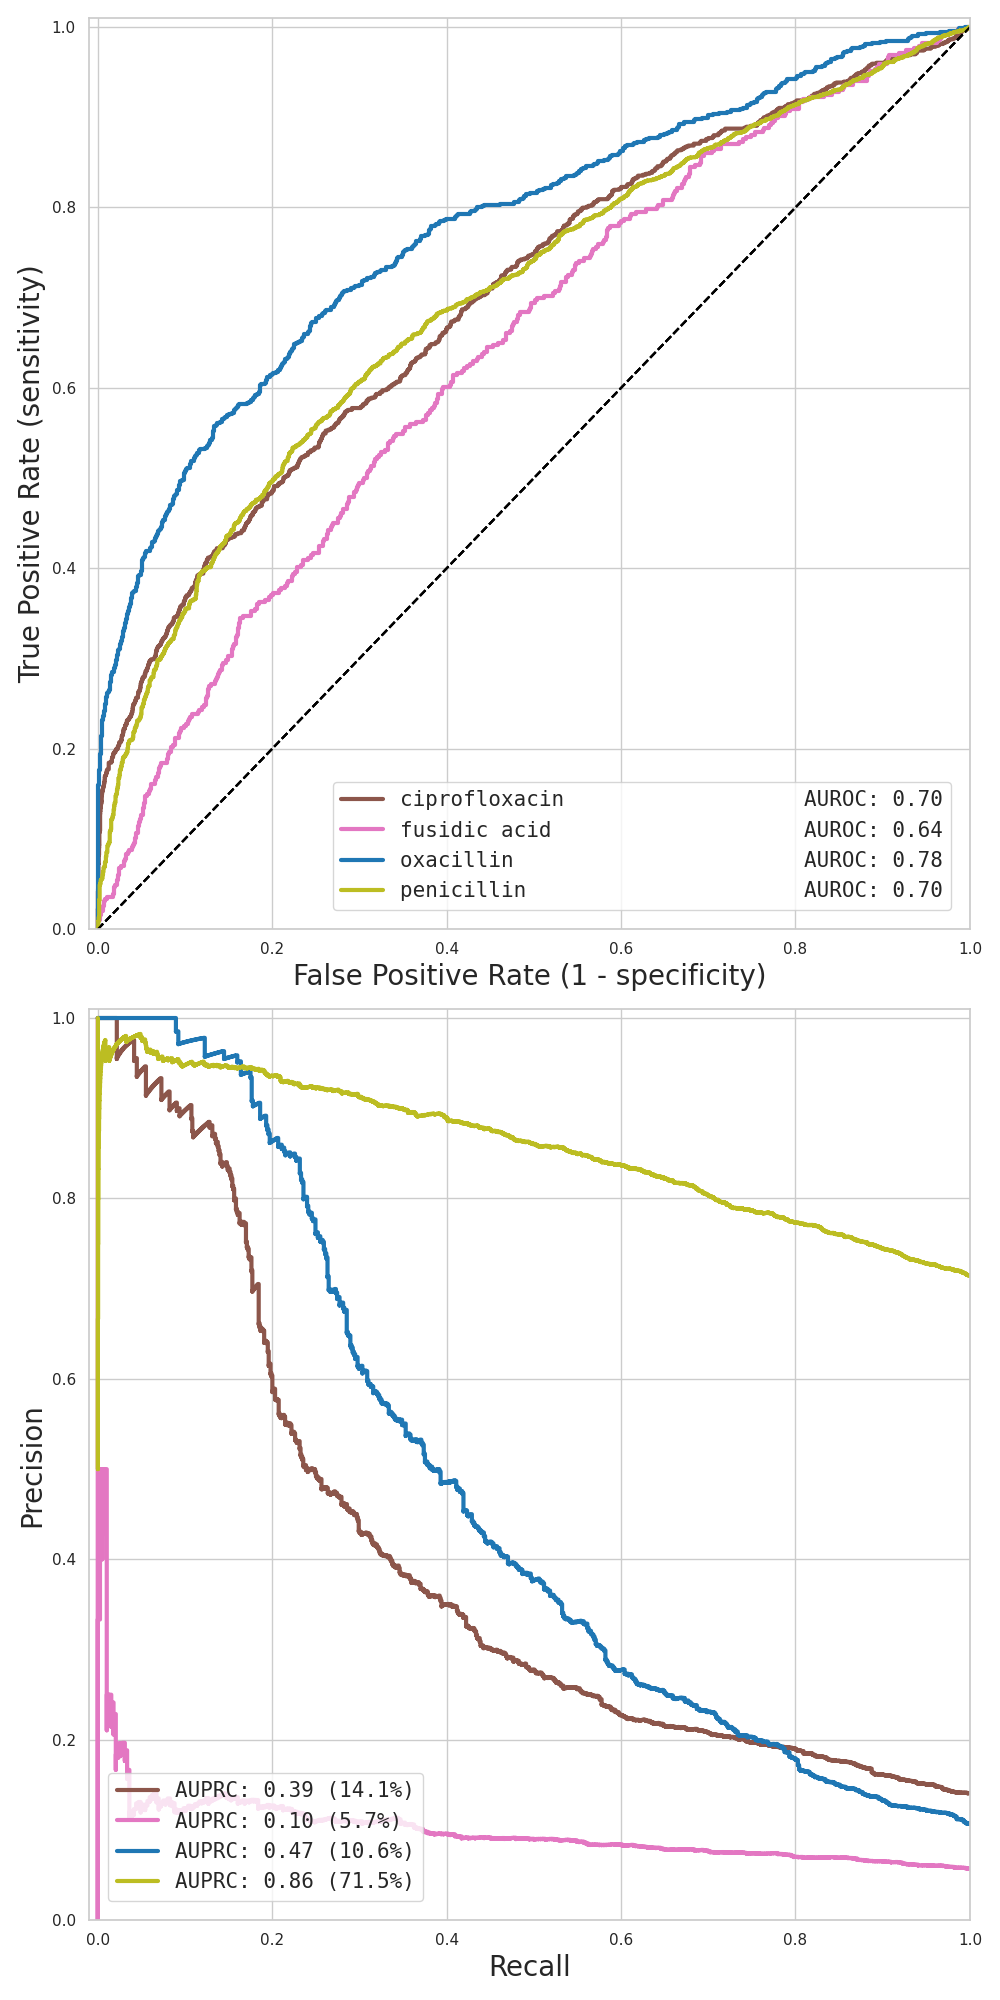
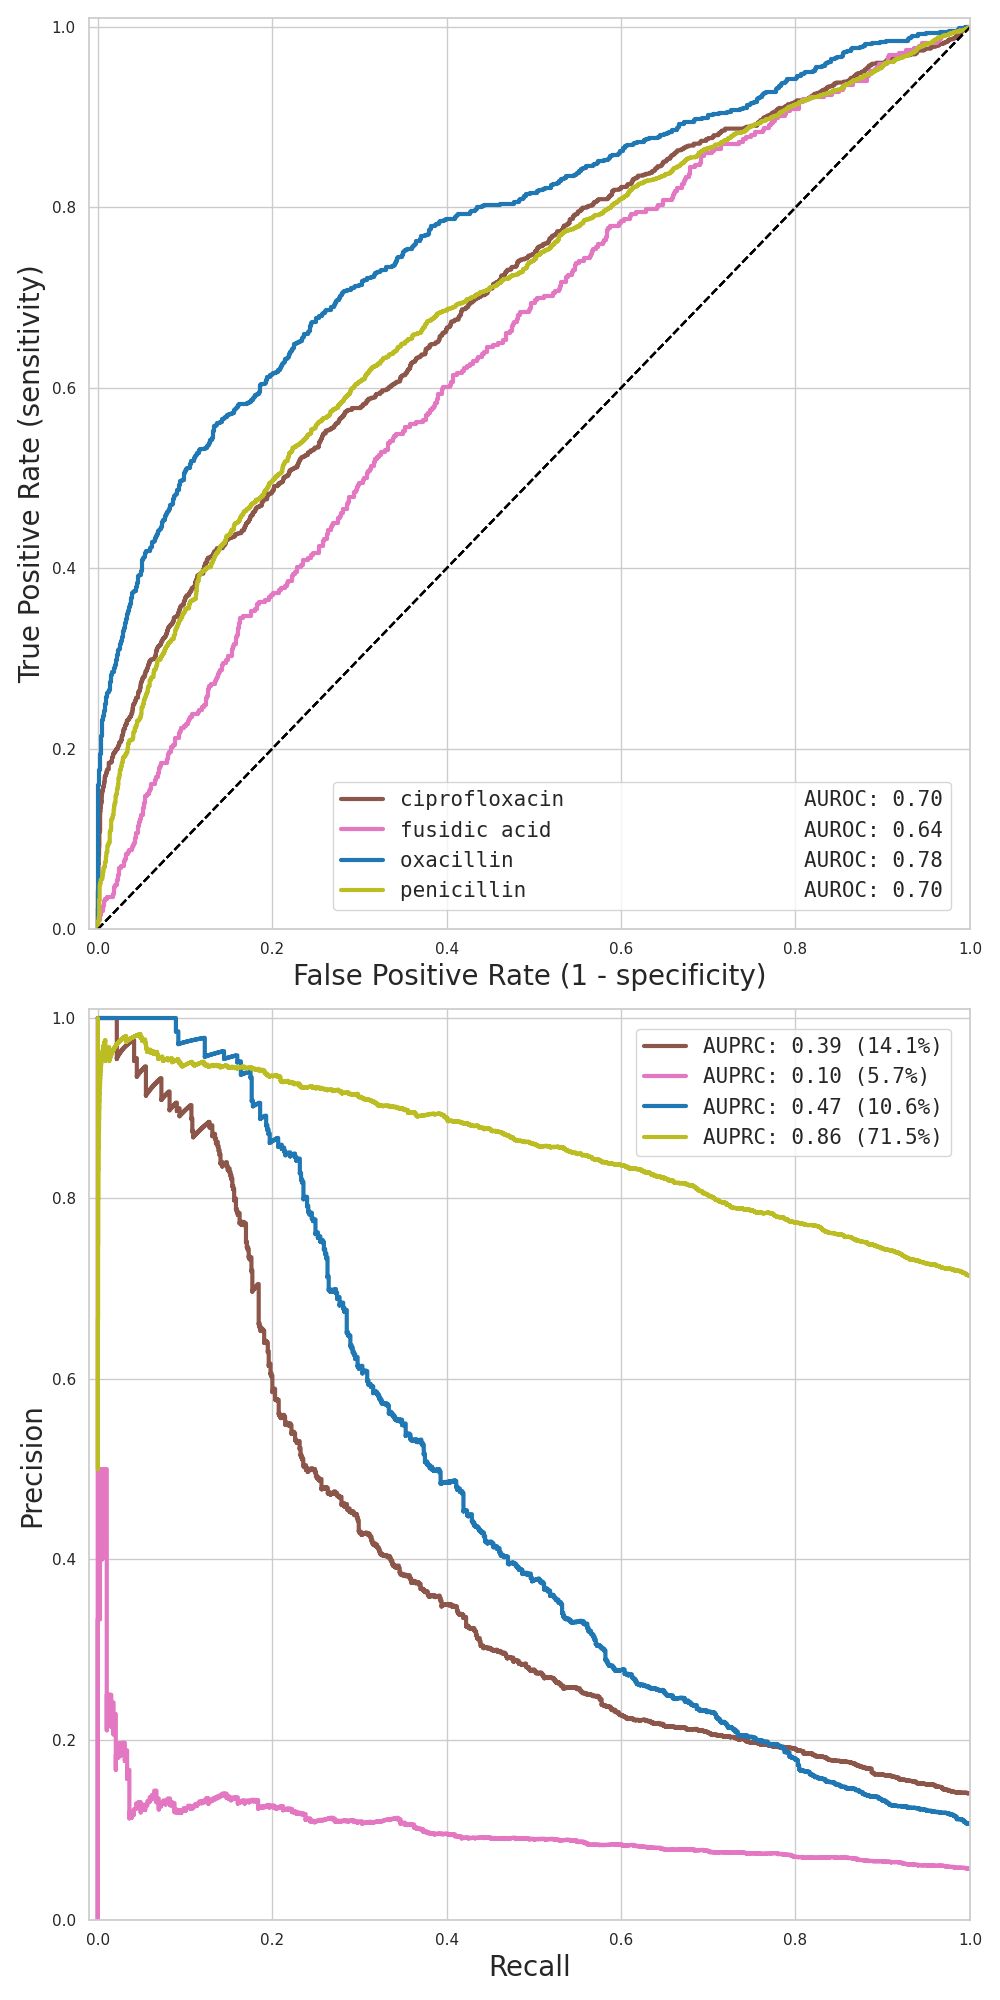
move AUPRC legend to upper right

Changed region(s): [[0.124, 0.868, 0.434, 0.961], [0.651, 0.496, 0.837, 0.589], [0.868, 0.527, 0.93, 0.589]]

diff --git a/amr_maldi_ml/plotting/plot_curves_per_species_and_antibiotic.py b/amr_maldi_ml/plotting/plot_curves_per_species_and_antibiotic.py
@@ -140,7 +140,7 @@ def plot_figure4(args):
     ax[1].set_ylabel('Precision', fontsize=xy_label_fs)
     ax[0].legend(bbox_to_anchor=(0.99, 0.01), loc='lower right',
                  prop={'family': 'DejaVu Sans Mono', 'size': 15})
-    ax[1].legend(bbox_to_anchor=(0.01, 0.01), loc='lower left',
+    ax[1].legend(bbox_to_anchor=(0.99, 0.99), loc='upper right',
                  prop={'family': 'DejaVu Sans Mono', 'size': 15})
 
     ax[0].set_xlim([-0.01, 1.0])
